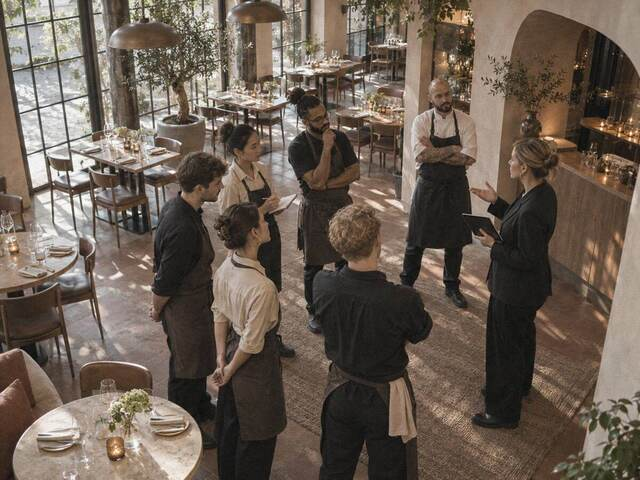
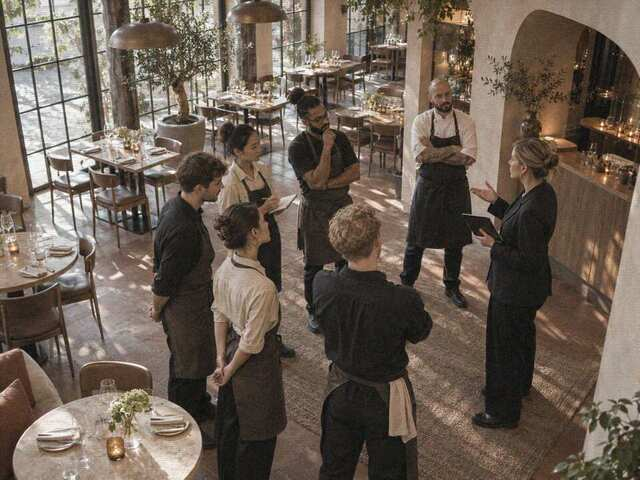
5 nauji vaizdai pareigoms + lengvesni vaizdai (greitesnė svetainė) (#161)
* Five new role photos: club host, barback, bartender, bar manager, barista

New CCTV frames (tools/jobimg.sh): VIP lounge, festival bar, sports bar,
bar prep and coffee window. Each is the first photo of its role
(administratorius, barback, barmenas, vadovas, barista), and they are mixed
into the home camera wall, /baras and /aptarnavimas.

Claude-Session: https://claude.ai/code/session_011egPzfN8uSPp3YM54whd5w

* Lighter photos: 960 px, quality 55, a bit more grain; wall loads lazily

All role photos are remade at 960x720 (was 1200x900), JPEG quality 55 and
a little more noise: about half the bytes, still the CCTV look. The home
camera wall now fetches each screen's next photo just before it is shown,
instead of the whole wall 1.5 s after load. Image URLs move to ?v=3 so the
CDN and browsers pick up the new files. cam-01..03 are not touched.

Claude-Session: https://claude.ai/code/session_011egPzfN8uSPp3YM54whd5w

---------

diff --git a/private/app/public.php b/private/app/public.php
@@ -47,16 +47,16 @@ const TEAM_PAGES = [
 
 // Home hero "camera wall": four screens, each switching between its own photos (keys of JOB_PHOTOS).
 const CAM_WALL = [
-    ['bar', 'club', 'wedding'],
+    ['bar', 'sportsbar', 'club', 'wedding'],
     ['kitchen', 'pass'],
-    ['dining', 'briefing', 'cafe'],
-    ['dish', 'stock', 'roastery'],
+    ['dining', 'vip', 'briefing', 'window'],
+    ['dish', 'festival', 'stock', 'roastery'],
 ];
 // Photos beside the text of /baras, /virtuve and /aptarnavimas: one large, two small.
 const TEAM_PHOTOS = [
-    '01' => ['bar', 'club', 'cafe'],
+    '01' => ['sportsbar', 'barprep', 'window'],
     '02' => ['kitchen', 'pass', 'dish'],
-    '03' => ['dining', 'briefing', 'wedding'],
+    '03' => ['dining', 'vip', 'briefing'],
 ];
 
 function cam_photo(string $n): string
@@ -93,9 +93,9 @@ function home_page(): never
         $wall .= '<div class="wall-cell'.($c === 0 ? ' show' : '').'">';
         foreach ($keys as $k => $key) {
             $n = str_pad((string) (array_search($key, array_keys(JOB_PHOTOS), true) + 1), 2, '0', STR_PAD_LEFT);
-            $src = '/img/job-'.$key.'-sm.jpg?v=2';
+            $src = '/img/job-'.$key.'-sm.jpg?v=3';
             // Only the first photo of a screen loads with the page; the script fetches the rest when idle.
-            $set = $src.' 640w, /img/job-'.$key.'.jpg?v=2 1200w';
+            $set = $src.' 640w, /img/job-'.$key.'.jpg?v=3 960w';
             $wall .= '<figure class="'.($k === 0 ? 'on' : '').'"><img '.($k === 0 ? 'src="'.$src.'" srcset="'.$set.'"' : 'data-src="'.$src.'" data-srcset="'.$set.'"').' sizes="50vw" alt="" width="640" height="480"'.($k === 0 && $c === 0 ? ' fetchpriority="high"' : '').'>'
                 .'<figcaption>CAM '.$n.' · '.e(mb_strtoupper(JOB_PHOTOS[$key])).'</figcaption></figure>';
             if ($k === 0) {
@@ -197,16 +197,24 @@ $finalCta
 (function () {
   var cells = document.querySelectorAll('.cam-wall .wall-cell'), c = 0;
   if (!cells.length || matchMedia('(prefers-reduced-motion: reduce)').matches) return;
-  function load() { document.querySelectorAll('.cam-wall img[data-src]').forEach(function (img) { img.srcset = img.dataset.srcset; img.src = img.dataset.src; img.removeAttribute('data-src'); }); }
-  window.addEventListener('load', function () { setTimeout(load, 1500); });
+  // Each screen fetches only its next photo, shortly before it is shown, so a visitor who leaves early
+  // (or a phone, which shows one screen at a time) does not download the whole wall.
+  function nextFig(cell) {
+    var figs = cell.querySelectorAll('figure'), on = cell.querySelector('figure.on');
+    return figs[(Array.prototype.indexOf.call(figs, on) + 1) % figs.length];
+  }
+  function prime(cell) {
+    var img = nextFig(cell).querySelector('img');
+    if (img.dataset.src) { img.srcset = img.dataset.srcset; img.src = img.dataset.src; img.removeAttribute('data-src'); }
+  }
+  window.addEventListener('load', function () { setTimeout(function () { cells.forEach(prime); }, 1500); });
   // Wide screens: one of the four screens switches at a time, in turn, like an operator flipping through cameras.
   // Phones show a single screen (CSS), so there the whole view moves on to the next camera.
   var phone = matchMedia('(max-width: 720px)');
   function ready(fig) { var img = fig.querySelector('img'); return img.complete && img.naturalWidth; }
   function advance(cell) {
-    var figs = cell.querySelectorAll('figure'), on = cell.querySelector('figure.on');
-    var next = figs[(Array.prototype.indexOf.call(figs, on) + 1) % figs.length];
-    if (next !== on && ready(next)) { on.classList.remove('on'); next.classList.add('on'); }
+    var on = cell.querySelector('figure.on'), next = nextFig(cell);
+    if (next !== on && ready(next)) { on.classList.remove('on'); next.classList.add('on'); prime(cell); }
   }
   (function tick() {
     setTimeout(function () {

diff --git a/private/app/views.php b/private/app/views.php
@@ -313,7 +313,7 @@ function request_card_short(array $r): string
     $soon = request_urgent($r) ? starts_in($from) : '';
     $keys = ROLE_PHOTOS[$r['role']] ?? [];
     $key = $keys ? $keys[(int) $r['id'] % count($keys)] : '';
-    $img = $key !== '' ? '<img src="/img/job-'.$key.'-sm.jpg?v=2" srcset="/img/job-'.$key.'-sm.jpg?v=2 640w, /img/job-'.$key.'.jpg?v=2 1200w" sizes="(max-width: 640px) 104px, (max-width: 960px) 50vw, 420px" alt="" width="640" height="480" loading="lazy" decoding="async">' : '';
+    $img = $key !== '' ? '<img src="/img/job-'.$key.'-sm.jpg?v=3" srcset="/img/job-'.$key.'-sm.jpg?v=3 640w, /img/job-'.$key.'.jpg?v=3 960w" sizes="(max-width: 640px) 104px, (max-width: 960px) 50vw, 420px" alt="" width="640" height="480" loading="lazy" decoding="async">' : '';
     return '<a class="card feed-card" href="/darbas/'.(int) $r['id'].'">'
         .'<div class="feed-media">'.$img
         .'<span class="feed-chips"><span class="feed-chip">'.e($kind).'</span>'.($soon !== '' ? '<span class="feed-chip soon">'.e($soon).'</span>' : '').'</span>'
@@ -324,12 +324,12 @@ function request_card_short(array $r): string
         .'<div class="feed-foot">'.$pay.'<p class="feed-when"><span class="feed-when-kind">'.e($kind).' · </span>'.e($when).'</p></div></div></a>';
 }
 
-// One CCTV frame from JOB_PHOTOS with its camera label. $size: '' (1200 px) or '-sm' (640 px); $eager for a photo at the top of a page.
+// One CCTV frame from JOB_PHOTOS with its camera label. $size: '' (960 px) or '-sm' (640 px); $eager for a photo at the top of a page.
 function cam_frame(string $key, string $class, string $size = '', bool $eager = false): string
 {
     $n = str_pad((string) (array_search($key, array_keys(JOB_PHOTOS), true) + 1), 2, '0', STR_PAD_LEFT);
-    [$w, $h] = $size === '' ? [1200, 900] : [640, 480];
-    return '<div class="job-photo '.$class.'" aria-hidden="true"><img src="/img/job-'.$key.$size.'.jpg?v=2" alt="" width="'.$w.'" height="'.$h.'"'.($eager ? ' fetchpriority="high"' : ' loading="lazy"').'>'
+    [$w, $h] = $size === '' ? [960, 720] : [640, 480];
+    return '<div class="job-photo '.$class.'" aria-hidden="true"><img src="/img/job-'.$key.$size.'.jpg?v=3" alt="" width="'.$w.'" height="'.$h.'"'.($eager ? ' fetchpriority="high"' : ' loading="lazy"').'>'
         .'<span class="cam-label">CAM '.$n.' · '.e(mb_strtoupper(JOB_PHOTOS[$key])).'</span></div>';
 }
 

diff --git a/private/app/bootstrap.php b/private/app/bootstrap.php
@@ -31,20 +31,22 @@ const JOB_PHOTOS = [
     'bar' => 'Main floor', 'club' => 'Club bar', 'wedding' => 'Event bar', 'stock' => 'Stock room',
     'cafe' => 'Coffee bar', 'roastery' => 'Roastery', 'pass' => 'Chef\'s pass', 'kitchen' => 'Kitchen',
     'streetfood' => 'Open kitchen', 'dish' => 'Dish pit', 'dining' => 'Dining room', 'briefing' => 'Briefing',
+    'vip' => 'VIP lounge', 'festival' => 'Festival bar', 'sportsbar' => 'Sports bar', 'barprep' => 'Bar prep',
+    'window' => 'Coffee window',
 ];
 // A role with several photos: ads take turns by id, so a list of the same role does not repeat one picture.
 const ROLE_PHOTOS = [
-    'barmenas' => ['bar', 'club', 'wedding'],
-    'barback' => ['club', 'stock'],
-    'barista' => ['cafe', 'roastery'],
+    'barmenas' => ['sportsbar', 'bar', 'club', 'wedding'],
+    'barback' => ['festival', 'club', 'stock'],
+    'barista' => ['window', 'cafe', 'roastery'],
     'padavejas' => ['dining', 'briefing'],
     'runneris' => ['dining', 'pass'],
     'sefas' => ['pass', 'kitchen'],
     'virejas' => ['kitchen', 'pass'],
     'pagalbinis' => ['streetfood', 'kitchen'],
     'plovejas' => ['dish'],
-    'administratorius' => ['dining', 'briefing'],
-    'vadovas' => ['stock', 'bar'],
+    'administratorius' => ['vip', 'dining', 'briefing'],
+    'vadovas' => ['barprep', 'stock', 'bar'],
     'someljee' => ['briefing', 'dining'],
 ];
 const KINDS = [
